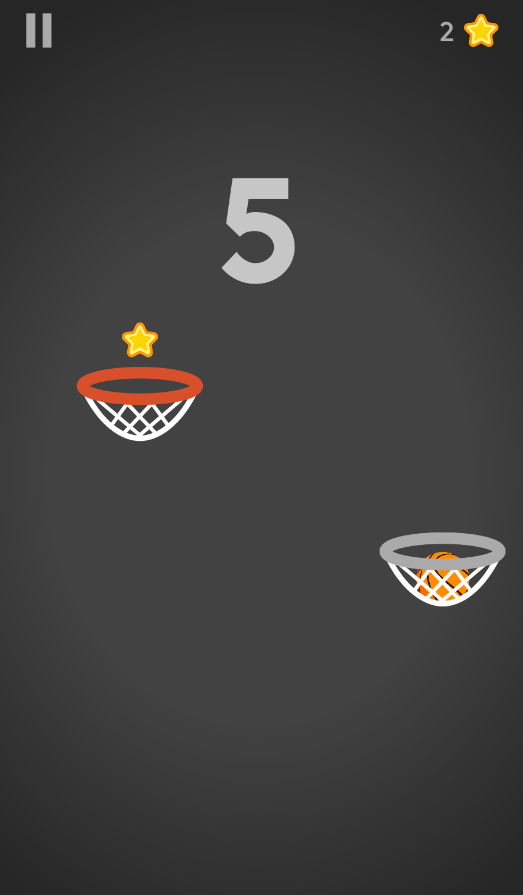
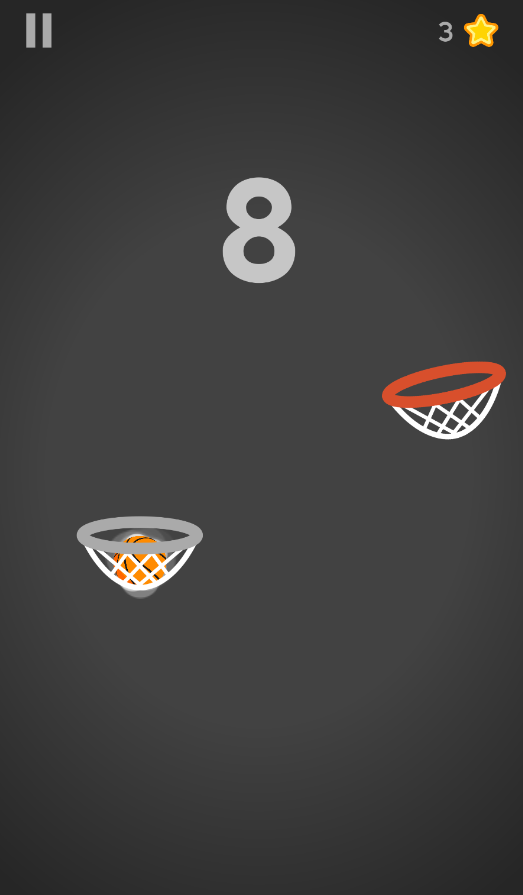
i just got bored

diff --git a/main.py b/main.py
@@ -67,14 +67,17 @@ def calculate_u_and_alpha(ball_x, ball_y, hoop_x, hoop_y):
 
 def basketball_pos(t, u, alpha, initial, hoop):
     initial_x, initial_y = initial
-    hoop_x, hoop_y = hoop
+    orig_hoop_x, hoop_x, hoop_y = hoop
+
+    sign = abs(orig_hoop_x - initial_x) / (orig_hoop_x - initial_x)
 
     t = min(t, (hoop_x - initial_x) / (u * math.cos(alpha)))
 
-    return transform_point(initial_x + u * math.cos(alpha) * t, initial_y + (u * math.sin(alpha) * t - 4.9 * t ** 2))
+    return transform_point(initial_x + u * math.cos(alpha) * sign * t, initial_y + (u * math.sin(alpha) * t - 4.9 * t ** 2))
 
 ball_x, ball_y = locate_ball()
-hoop_x, hoop_y = locate_hoop()
+orig_hoop_x, hoop_y = locate_hoop()
+hoop_x = max(orig_hoop_x, ball_x + abs(orig_hoop_x - ball_x))
 u, alpha = calculate_u_and_alpha(ball_x, ball_y, hoop_x, hoop_y)
 
 print(ball_x, ball_y)
@@ -95,9 +98,9 @@ while running:
     screen.blit(scaled_image, (0, 0))
 
     pygame.draw.circle(screen, 'blue', transform_point(ball_x, ball_y), 5)
-    pygame.draw.circle(screen, 'purple', transform_point(hoop_x, hoop_y), 5)
+    pygame.draw.circle(screen, 'purple', transform_point(orig_hoop_x, hoop_y), 5)
 
-    b_x, b_y = basketball_pos(time, u, alpha, (ball_x, ball_y), (hoop_x, hoop_y))
+    b_x, b_y = basketball_pos(time, u, alpha, (ball_x, ball_y), (orig_hoop_x, hoop_x, hoop_y))
     pygame.draw.circle(screen, 'orange', (b_x, b_y), 10)
 
     pygame.display.flip()
